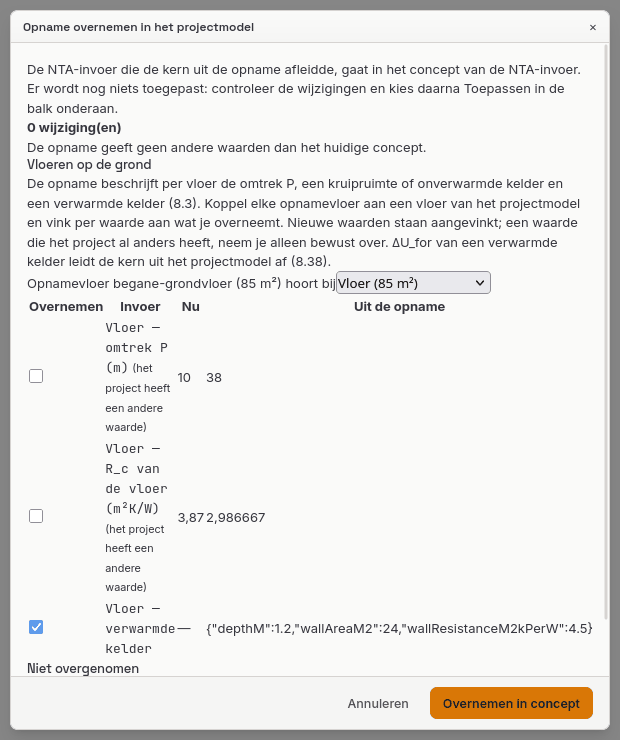
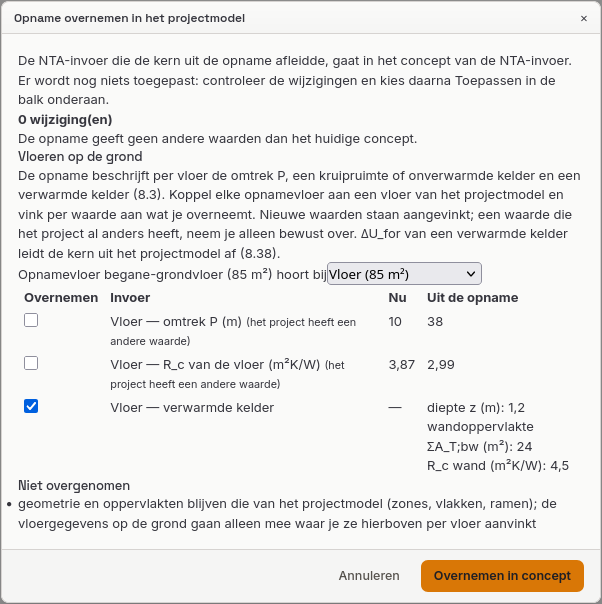
Manual screenshots for the ground-floor takeover and per-window shading redone with readable values; a rounded number no longer splits in the takeover table (geen rekenwijziging)

diff --git a/src/components/BasisopnamePanel/BasisopnamePanel.css b/src/components/BasisopnamePanel/BasisopnamePanel.css
@@ -128,4 +128,6 @@
 .opname-takeover__diff td { overflow-wrap: anywhere; }
 .opname-takeover__ground-table th[scope='row'] { min-width: 14em; font-weight: normal; }
 .opname-takeover__ground-table td:first-child { width: 1%; }
+/* A rounded number never splits over two lines (3,87 showed as "3,8 / 7"). */
+.opname-takeover__ground-table td { overflow-wrap: break-word; }
 .opname-takeover__value { margin: 0; padding: 0; list-style: none; }

diff --git a/docs/nta8800-releasenotes.md b/docs/nta8800-releasenotes.md
@@ -31,6 +31,7 @@ Dit bestand is de wijzigingsregistratie van de rekenkern (BRL 9501 §5.2, §6.2 
   - de tabellen *Belemmering*, *Zonwering* en *Glas per raam* (hoofdstuk 3).
 - **Hoe gemaakt.** Elk onderdeel is los weergegeven met de voorbeeldprojecten of de openbare gevallen D en G, in Firefox zonder scherm. De wissel van uitgave toont een vastgelegd antwoord van de rekenkern op het voorbeeldkantoor (2025+C1 naar 2020+A1).
 - **Handleiding.** De afbeeldingen zitten in de HTML-handleiding en in het venster *Handleiding* in de app. De lijst "Nog te doen: schermafdrukken" in de inhoudsopgave is bijgewerkt; de overige onderdelen vragen het volledige venster met een rekenkern en staan er nog.
+- **Opnieuw gemaakt na de leesbare waarden.** `overnemen-vloeren.png` toont de afgeronde waarden en de verwarmde kelder per onderdeel, `zonwering-per-raam.png` de naam van de zonwering ("Screen buiten, donker …") in plaats van `dark`. In de tabel *Vloeren op de grond* breekt een afgerond getal niet meer over twee regels (3,87 stond als "3,8 / 7").
 
 ### 10 oktober 2026 — Documentatie bijgewerkt na het werk van 10 oktober (geen rekenwijziging)
 

diff --git a/docs/handleiding-nta8800/index.md b/docs/handleiding-nta8800/index.md
@@ -50,5 +50,3 @@ Alle afbeeldingen waar de hoofdstukken naar verwijzen staan in `img/`. De meeste
 - *Verklaringen voor het energielabel* (elementen k en l) in de stap Registratie;
 - de uitkomst bovenaan een onderdeel van de basisopname na **Opname doorrekenen**;
 - het venster *Handleiding* in de app.
-
-Twee afdrukken van 10 oktober 2026 zijn sindsdien verouderd en moeten opnieuw: `overnemen-vloeren.png` (de waarden staan nu afgerond, een verwarmde kelder per onderdeel in plaats van als JSON) en `zonwering-per-raam.png` (de soorten zonwering tonen nu hun naam, zoals "Screen buiten, donker", in plaats van `dark`).
